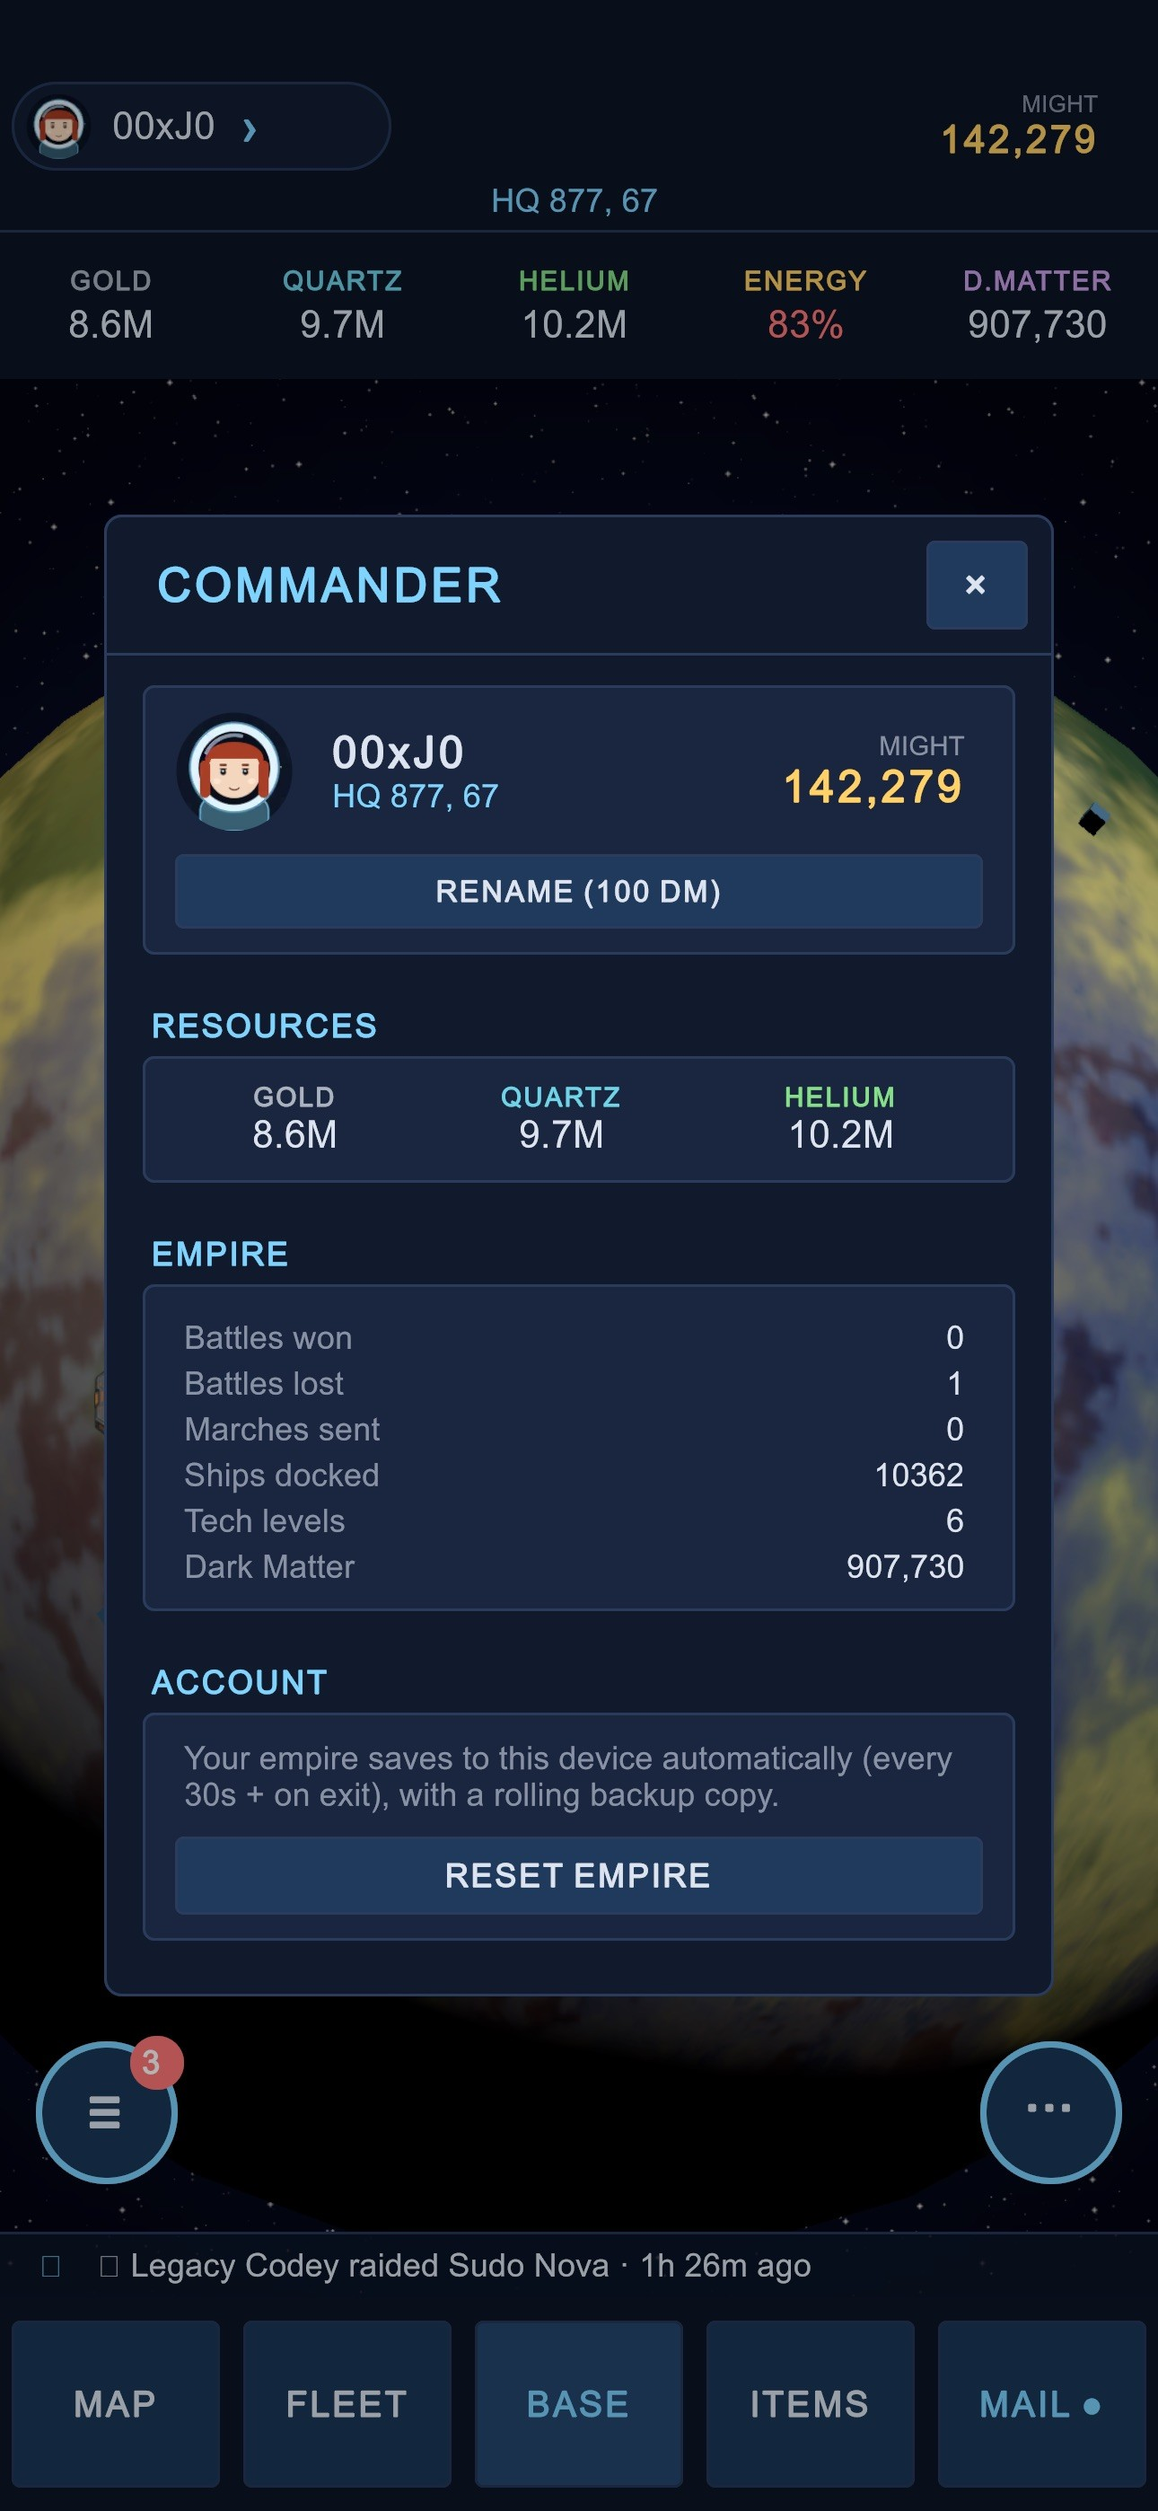
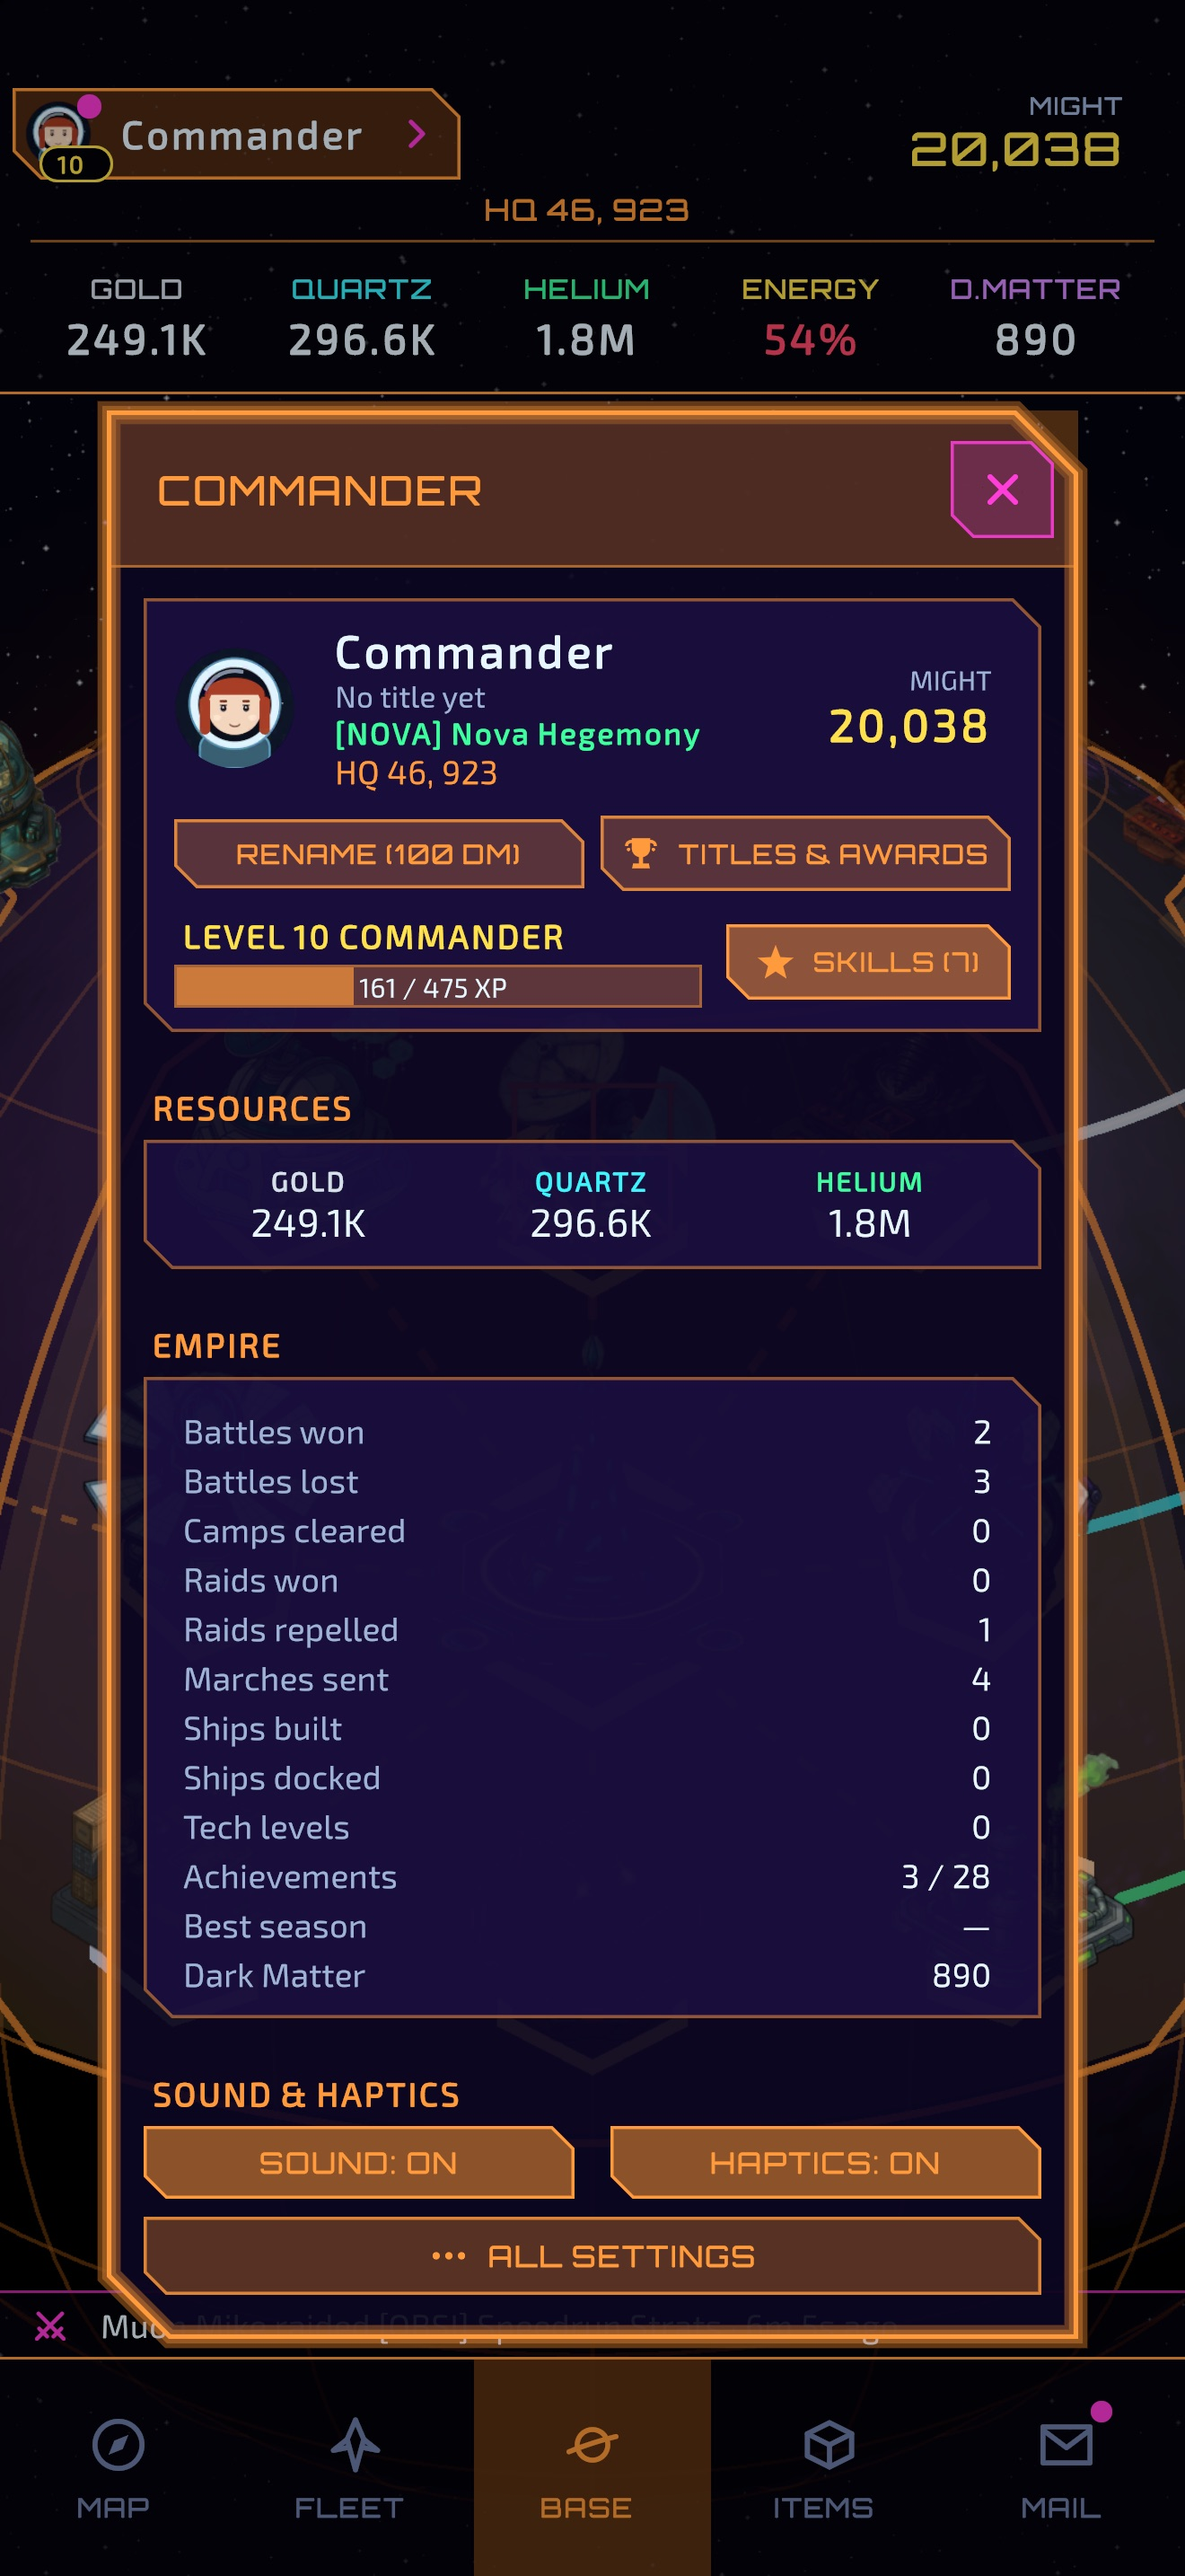
New README screenshots: the globe base and the orange restyle
All six screenshots replaced with the current game: the Command district,
the Mining Belt and the orbit view of the globe base, the galaxy map around
home, the Galactic Core and the commander profile. galaxy-rivals and
galaxy-map-2 (old look) are gone. A GR_OPEN=mapcore hook frames the map on
the Galactic Core for the screenshot.

diff --git a/GalaxyRoyale/Assets/Scripts/Game/DebugLaunch.cs b/GalaxyRoyale/Assets/Scripts/Game/DebugLaunch.cs
@@ -14,7 +14,7 @@ namespace GalaxyRoyale.Game
         /// <summary>Names GR_OPEN accepts.</summary>
         public const string Screens = "core, boss, market, commander, clan, rankings, season, mail, news, events, " +
             "awards, daily, queues, shop, research, profile, settings, fleet, map, newgame, liveactivity, hail, " +
-            "command, mines, frontier, orbit";
+            "command, mines, frontier, orbit, mapcore";
 
         public static void Run(GameContext ctx)
         {
@@ -79,6 +79,12 @@ namespace GalaxyRoyale.Game
                     case "profile": ui.OpenProfile(); break;
                     case "fleet": ui.SwitchView(UI.ViewId.Fleet); break;
                     case "map": ui.SwitchView(UI.ViewId.Map); break;
+                    // The galaxy map framed on the Galactic Core and the rivals around it.
+                    case "mapcore":
+                        ui.CloseModal();
+                        ui.SwitchView(UI.ViewId.Map);
+                        ctx.GetComponent<MapView>()?.Frame(Sim.Systems.CoreSystem.CoreTile, 520f);
+                        break;
                     // The globe base's views (any boot-time panel closed first).
                     case "command": ui.CloseModal(); BaseGlobe.Instance?.Snap(Sim.BaseDistrict.Command); break;
                     case "mines": ui.CloseModal(); BaseGlobe.Instance?.Snap(Sim.BaseDistrict.MiningBelt); break;

diff --git a/GalaxyRoyale/Assets/Scripts/Game/MapView.cs b/GalaxyRoyale/Assets/Scripts/Game/MapView.cs
@@ -236,6 +236,17 @@ namespace GalaxyRoyale.Game
             if (node != null) SelectNode(node);
         }
 
+        /// <summary>Center the map on a tile at a zoom (half-height in tiles), selecting
+        /// nothing — for launch hooks and screenshots.</summary>
+        public void Frame(TileXY tile, float viewSize)
+        {
+            if (!_active) EnterMap();
+            if (_mapCam == null || _camCtl == null) return;
+            var w = TileToWorld(tile.X, tile.Y);
+            _camCtl.ViewSize = viewSize;
+            _camCtl.Frame(new Vector2(w.x, w.y));
+        }
+
         static Vector3 TileToWorld(double x, double y, float z = 0f) =>
             new((float)(x + 0.5), -(float)(y + 0.5), z);
 

diff --git a/README.md b/README.md
@@ -26,13 +26,14 @@ code stayed home.)
 
 ## Screenshots
 
-Running on an iPhone — the base view, the living galaxy of 249 rivals, and
-the supernova at its heart:
+Running on iPhone (iOS Simulator) — your colony on its globe, the living
+galaxy of 249 rivals, and the Galactic Core at its heart:
 
-| Your planet | The galaxy | The core |
+| Your colony | The Mining Belt | From orbit |
 |---|---|---|
-| ![Base view](Screenshots/base-view.jpeg) | ![Rival planets](Screenshots/galaxy-rivals.jpeg) | ![Galaxy core](Screenshots/galaxy-core.jpeg) |
-| ![Commander profile](Screenshots/commander-profile.jpeg) | ![Galaxy map](Screenshots/galaxy-map.jpeg) | ![More rivals](Screenshots/galaxy-map-2.jpeg) |
+| ![The Command district of the globe base](Screenshots/base-view.jpeg) | ![The Mining Belt, with open and locked pads](Screenshots/base-mines.jpeg) | ![The whole colony from orbit](Screenshots/base-orbit.jpeg) |
+| **Your home in the galaxy** | **The Galactic Core** | **Your commander** |
+| ![The galaxy map around your home planet](Screenshots/galaxy-map.jpeg) | ![The Galactic Core and the rivals around it](Screenshots/galaxy-core.jpeg) | ![The commander profile](Screenshots/commander-profile.jpeg) |
 
 ## The game
 
